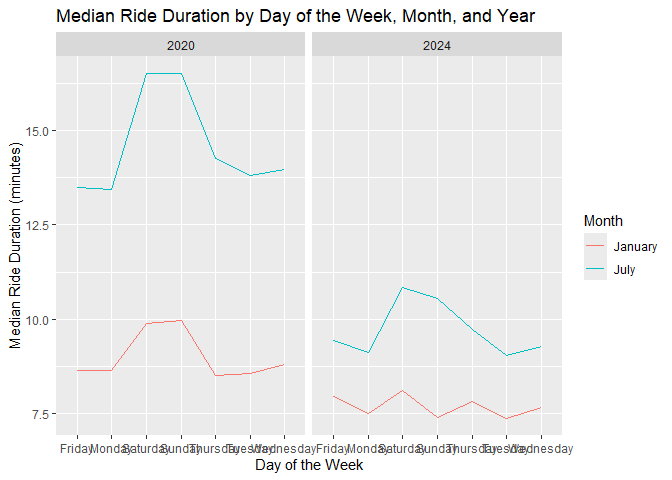
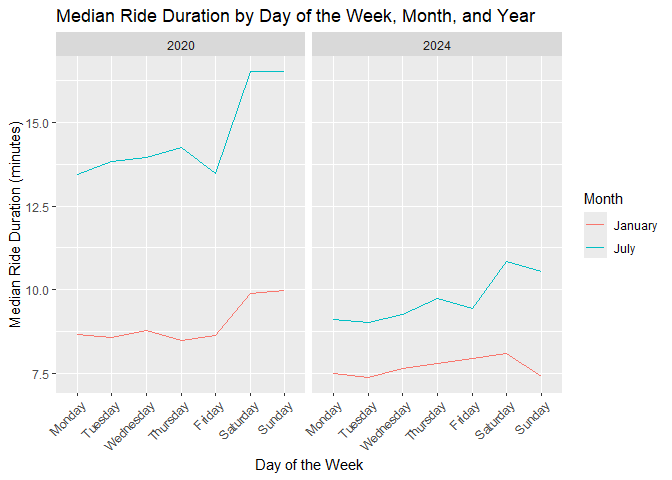
edit problem 3 median duration plot

diff --git a/p8105_hw3_jw4690.md b/p8105_hw3_jw4690.md
@@ -419,9 +419,12 @@ Chelsea Piers, University Pl & E 14 St, W 21 St & 6 Ave, West St &
 Chambers St, and W 31 St & 7 Ave.
 
 ``` r
+# Make a plot to investigate the effects of day of the week, month, and year on median ride duration
+
 median_duration_df = combined_df |>
   group_by(year, month, weekdays) |>
-  summarize(median_duration = median(duration, na.rm = TRUE))
+  summarize(median_duration = median(duration, na.rm = TRUE)) |>
+  mutate(weekdays = factor(weekdays, levels = c("Monday", "Tuesday", "Wednesday", "Thursday", "Friday", "Saturday", "Sunday")))
 ```
 
     ## `summarise()` has grouped output by 'year', 'month'. You can override using the
@@ -435,18 +438,21 @@ median_duration_plot = median_duration_df |>
   labs(title = "Median Ride Duration by Day of the Week, Month, and Year",
        x = "Day of the Week",
        y = "Median Ride Duration (minutes)",
-       color = "Month")
+       color = "Month") +
+  theme(axis.text.x = element_text(angle = 45, hjust = 1))
 
 median_duration_plot
 ```
 
 ![](p8105_hw3_jw4690_files/figure-gfm/unnamed-chunk-16-1.png)<!-- -->
 
-The plot shows patterns in ride duration across different days of the
-week, with longer rides generally observed on weekends. Additionally,
-ride durations tend to be higher in warmer months like July compared to
-January. Comparing 2020 and 2024, there are some shifts in ride duration
-trends.
+This plot shows that July has consistently longer median ride durations
+compared to January in both 2020 and 2024, indicating a seasonal effect.
+In July, rides peak on Saturdays, especially in 2020, while January has
+more stable and shorter ride durations throughout the week. Overall,
+summer months (July) see more variability and longer rides, particularly
+on weekends, whereas winter months (January) show little variation in
+ride duration across the week.
 
 ``` r
 df_2024 = combined_df |>
